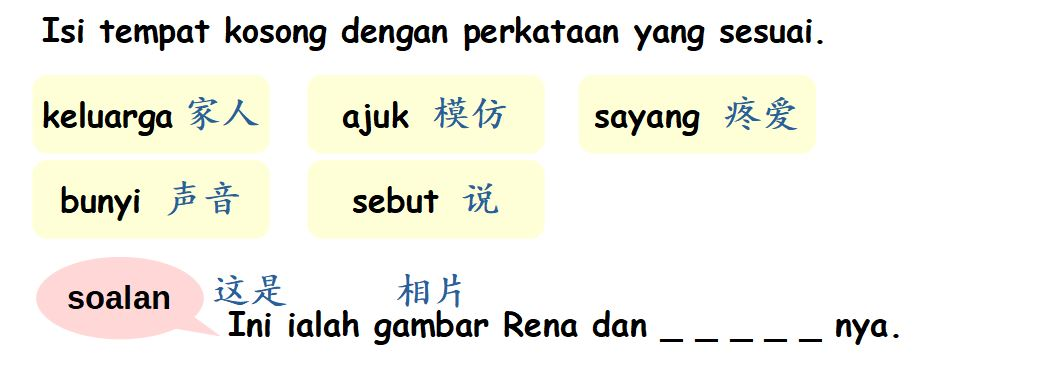
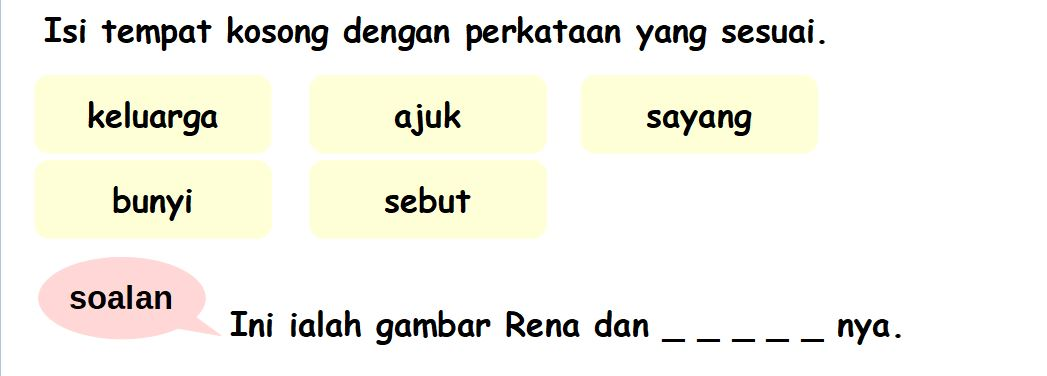
amend sample

diff --git a/js/sample_questions.js b/js/sample_questions.js
@@ -24,74 +24,17 @@ let questions_1 = [
         "bunyi"
       ]
   },
-
   {
-    pics: "../image/sample/huruf_vokal_api.JPG",
-    answer: "a",
-    options: [
-      "a",
-      "u",
-      "i",
-      "e",
-      "o"
-    ]
-  },
-    {
-    pics: "../image/sample/huruf_vokal_ayam.JPG",
-    answer: "a",
-    options: [
-      "a",
-      "e",
-      "i",
-      "o",
-      "u"
-    ]
-  },
-
-  {
-      pics: "../image/sample/huruf_vokal_itik2.JPG",
-      answer: "itik",
+      pics: "../image/sample/unit01_soalan04.jpg",
+      answer: "sebut",
       options: [
-        "itik",
-        "ulat",
-        "api",
-        "ikan",
-        "api"
-      ]
-    },
-      {
-      pics: "../image/sample/huruf_vokal_ikan2.JPG",
-      answer: "ikan",
-      options: [
-        "ikan",
-        "otak",
-        "ibu",
-        "abang",
-        "enam"
+        "sayang",
+        "keluarga",
+        "sebut",
+        "ajuk",
+        "bunyi"
       ]
   },
 
-  {
-      pics: "../image/sample/count_01.JPG",
-      answer: "4",
-      options: [
-        "3",
-        "4",
-        "5",
-        "6",
-        "7"
-      ]
-    },
-      {
-      pics: "../image/sample/add_01.JPG",
-      answer: "5",
-      options: [
-        "5",
-        "2",
-        "3",
-        "7",
-        "6"
-      ]
-  },
 
 ];

diff --git a/css/sample_style.css b/css/sample_style.css
@@ -73,7 +73,7 @@ body{
 
 .middleContainer .questionPanel .equation img{
     //width: 99%;
-    //height: 99%; 
+    height: 99%; 
     //border: 3px solid #007bff; 
 }
  
